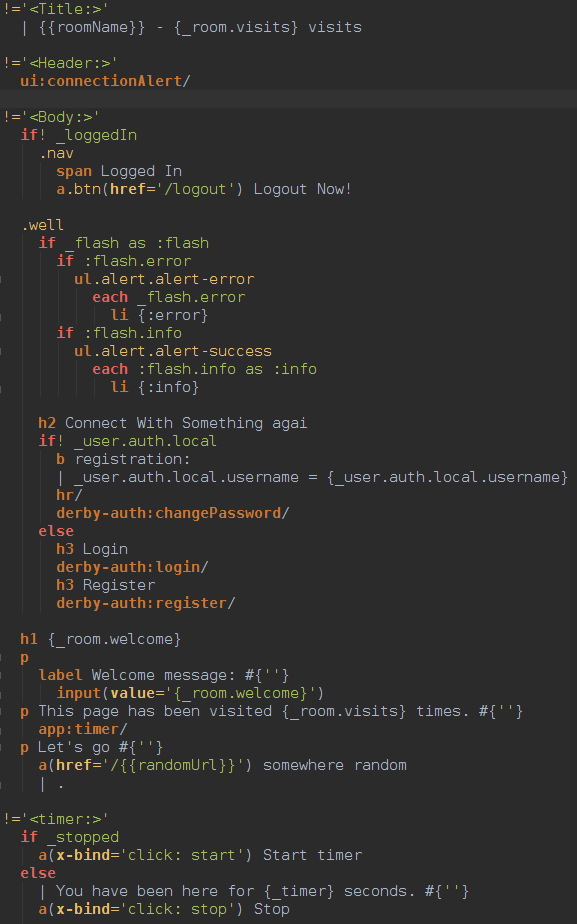
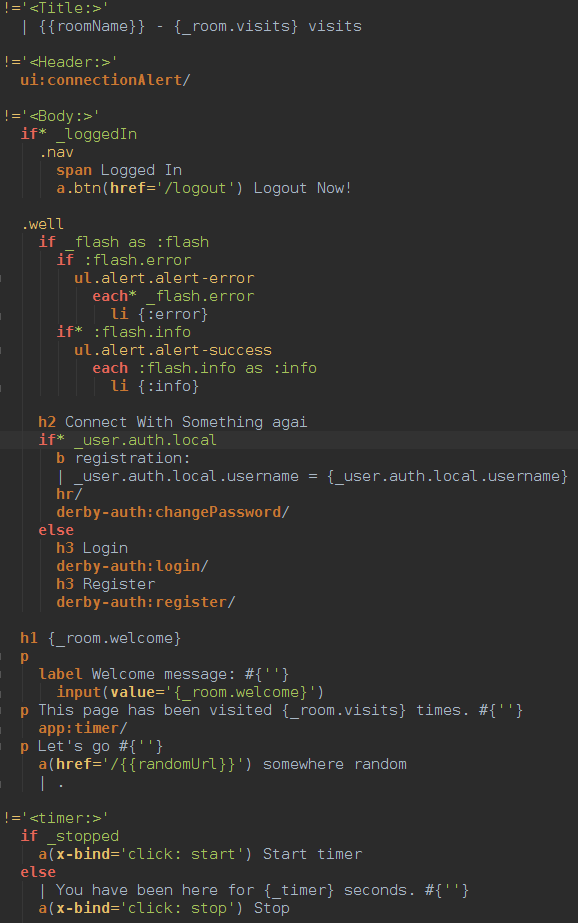
Change non-bound char from ! to *

diff --git a/lib/lexer.js b/lib/lexer.js
@@ -421,7 +421,7 @@ Lexer.prototype = {
 
   derby: function() {
     var captures;
-    if (captures = /^((?:if|unless|else if|else|with|each)!?) *([^\n]*)(?: *as *([^\n]+))?/.exec(this.input)) {
+    if (captures = /^((?:if|unless|else if|else|with|each)\*?) *([^\n]*)(?: *as *([^\n]+))?/.exec(this.input)) {
       this.consume(captures[0].length);
       var type = captures[1]
         , js = captures[2];
@@ -430,17 +430,17 @@ Lexer.prototype = {
       }
       switch (type) {
         case 'if': js       = '\'{#if '     + js + '}\''; break;
-        case 'if!': js      = '\'{{#if '     + js + '}}\''; break;
+        case 'if*': js      = '\'{{#if '     + js + '}}\''; break;
         case 'unless': js   = '\'{#unless ' + js + '}\''; break;
-        case 'unless!': js  = '\'{{#unless ' + js + '}}\''; break;
+        case 'unless*': js  = '\'{{#unless ' + js + '}}\''; break;
         case 'else if': js  = '\'{else if ' + js + '}\''; break;
-        case 'else if!': js = '\'{{else if ' + js + '}}\''; break;
+        case 'else if*': js = '\'{{else if ' + js + '}}\''; break;
         case 'else': js     = '\'{else}\''; break;
-        case 'else!': js    = '\'{{else}}\''; break;
+        case 'else*': js    = '\'{{else}}\''; break;
         case 'with': js     = '\'{#with ' + js + '}\''; break;
-        case 'with!': js    = '\'{{#with ' + js + '}}\''; break;
+        case 'with*': js    = '\'{{#with ' + js + '}}\''; break;
         case 'each': js     = '\'{#each ' + js + '}\''; break;
-        case 'each!': js    = '\'{{#each ' + js + '}}\''; break;
+        case 'each*': js    = '\'{{#each ' + js + '}}\''; break;
       }
 
       return this.tok('code', js)

diff --git a/bin/test.html b/bin/test.html
@@ -2,12 +2,12 @@
 <ui:connectionAlert/><Body:>{{#unless _loggedIn}}
 <div class="nav"><span>Logged In</span><a href="/logout" class="btn">Logout Now!</a></div>{{/}}
 <div class="well">{#if _flash as :flash}{#if _flash.error}
-  <ul class="alert alert-error">{#each _flash.error}
-    <li>{:error}</li>{/}
-  </ul>{/}{#if _flash.info}
+  <ul class="alert alert-error">{{#each _flash.error}}
+    <li>{:error}</li>{{/}}
+  </ul>{/}{{#if _flash.info}}
   <ul class="alert alert-success">{#each _flash.info as :info}
     <li>{:info}</li>{/}
-  </ul>{/}{/}
+  </ul>{{/}}{/}
   <h2>Connect With Something agai</h2>{{#if _user.auth.local}}<b>registration:</b>_user.auth.local.username = {_user.auth.local.username}
   <hr/>
   <derby-auth:changePassword/>{{else}}
@@ -25,4 +25,4 @@
 <p>This page has been visited {_room.visits} times. 
   <app:timer/>
 </p>
-<p>Let's go <a href="/{{randomUrl}}">somewhere random</a>.</p><timer:>{#if _stopped}<a x-bind="click: start">Start timer</a>{else}You have been here for {_timer} seconds. <a x-bind="click: stop">Stop</a>{/}
+<p>Let's go <a href="/{{randomUrl}}">somewhere random</a>.</p><timer:>{{#if _stopped}}<a x-bind="click: start">Start timer</a>{{else}}You have been here for {_timer} seconds. <a x-bind="click: stop">Stop</a>{{/}}

diff --git a/Readme.md b/Readme.md
@@ -20,16 +20,16 @@ else
 {/}
 ```
 
- Append `!` to make static variables:
+ Append `*` to make a non-bound variables:
 ```jade
-if! _flash as :flash
+if* _flash as :flash
   if :flash.error
     ul.alert.alert-error
       each :flash.error
         li {.error}
   if :flash.info
     ul.alert.alert-success
-      each! :flash.info as :info
+      each* :flash.info as :info
         li {{:info}}
 else
   p No notifications
@@ -55,7 +55,7 @@ else
     <p>No notifications</p>
 {{/}}
 ```
- Note that there is no need to append `!` to `else` -- it will automatically inherit the behavior of `if`
+ Note that there is no need to append `*` to `else` -- it will automatically inherit the behavior of `if`
 
 ## Installation
 
@@ -64,8 +64,7 @@ $ cd /path/to/project/
 $ npm install git://github.com/cray0000/jade.git --save-dev
 ```
 
- Can be used to compile your views from /jade/**/*.jade to /views/**/*.html
- or in conjunction with task-runners like [grunt-contrib-jade](https://github.com/gruntjs/grunt-contrib-jade) or simply by calling something like:
+ Can be used in conjunction with task-runners like [grunt-contrib-jade](https://github.com/cray0000/grunt-contrib-jade) or directly by calling for example:
 
 ```bash
 $ ./node_modules/.bin/jade -w ./jade/ --out ./views/**/
